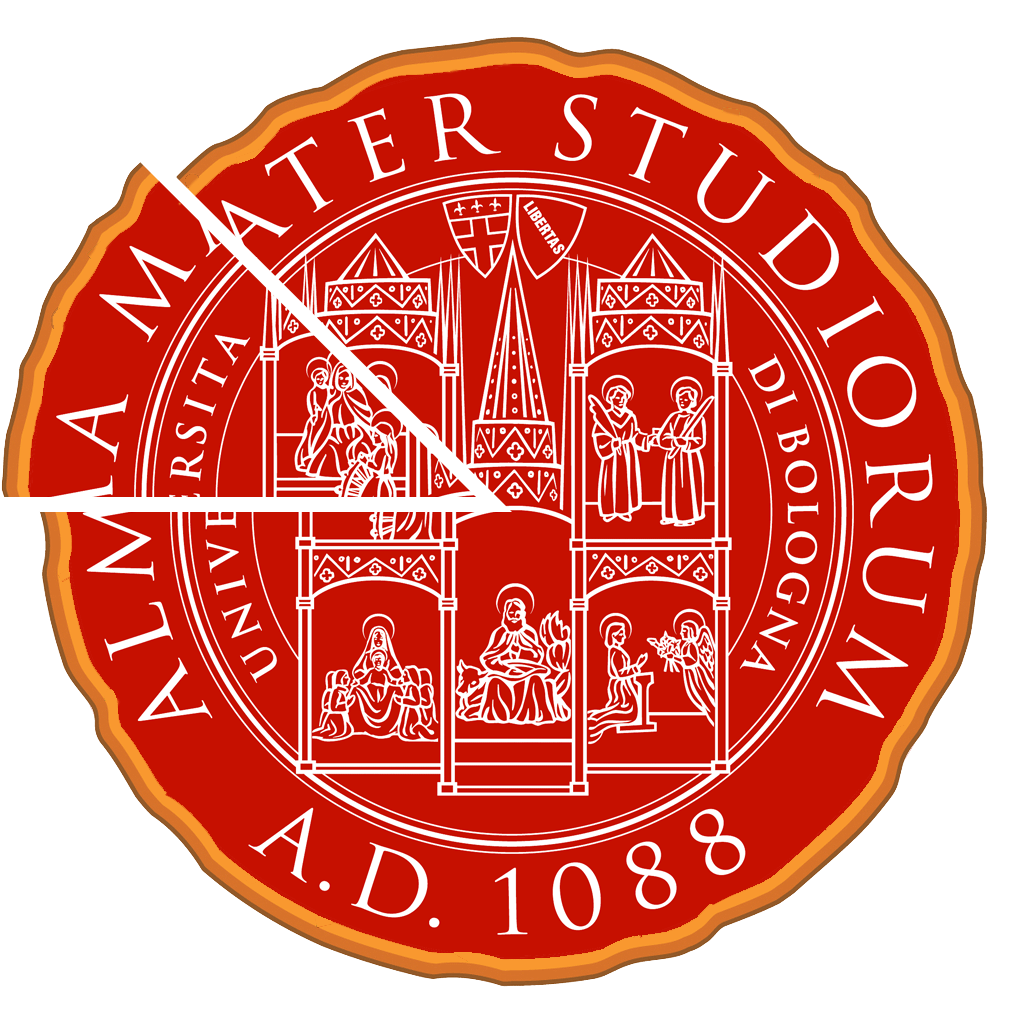
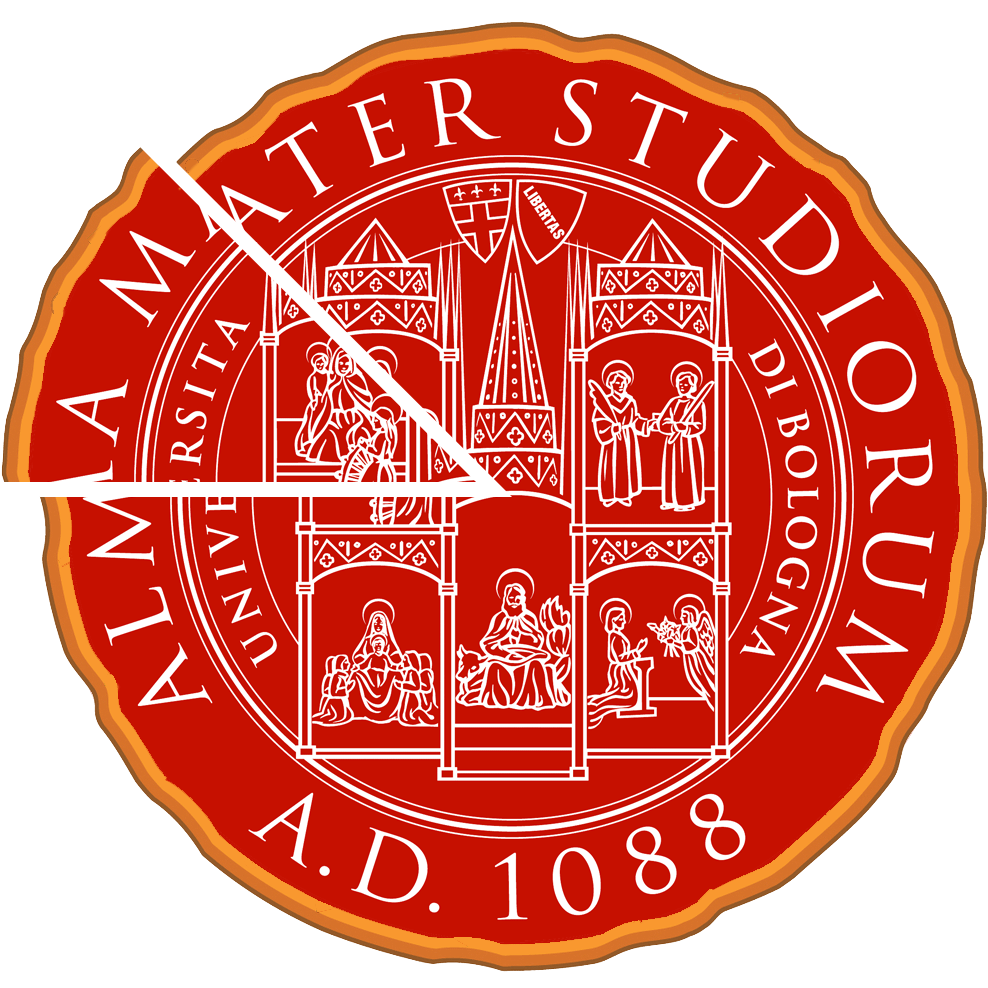
Change Sign In page layout and background

diff --git a/signin.html b/signin.html
@@ -15,13 +15,16 @@
 </head>
 
 <body>
+  <div class="plate rounded-circle centered">
+    <img src="img/almafood.png" class="centered" width="600" height="600"/>
+  </div>
+            
   <div class="container">
     <div class="row">
-      <div class="col-sm-9 col-md-7 col-lg-5 mx-auto">
+      <div class="col-sm-9 col-md-7 col-lg-5 mx-auto" style="z-index: 9">
         <div class="card my-5">
           <div class="card-body">
             <h5 class="card-title text-center">Sign In</h5>
-            <img src="img/almafood.png" class="offset-1 col-10"/>
             <form>
               <input type="email" id="inputEmail" class="form-control" placeholder="Email address" required="true">
               <input type="password" id="inputPassword" class="form-control" placeholder="Password" required="true">

diff --git a/css/style.css b/css/style.css
@@ -1,3 +1,35 @@
+body {
+    background: #efefef;
+    background-image: linear-gradient(90deg, transparent 50%, rgba(226, 126, 44, .5) 0),
+                      linear-gradient(transparent 50%, rgba(226, 126, 44, 0.5) 0);
+    background-size: 133px 133px;
+}
+
+.centered {
+    position: absolute;
+    top: 50%;
+    left: 50%;
+    transform: translate(-50%, -50%);
+}
+.plate > img {
+    width: 600px;
+    height: 600px;
+    z-index: 3;
+    left: 48.5%;
+}
+.plate {
+    width: 650px;
+    height: 650px;
+    z-index: 2;
+    background-color: #efefef;
+    box-sizing: border-box;
+    box-shadow: inset 0 0 10px #606060;
+}
+
+ul, ol {
+    list-style: none;
+}
+
 /* Don't display the circle of the radio button */
 input[type="radio"] {
     width: 0;
